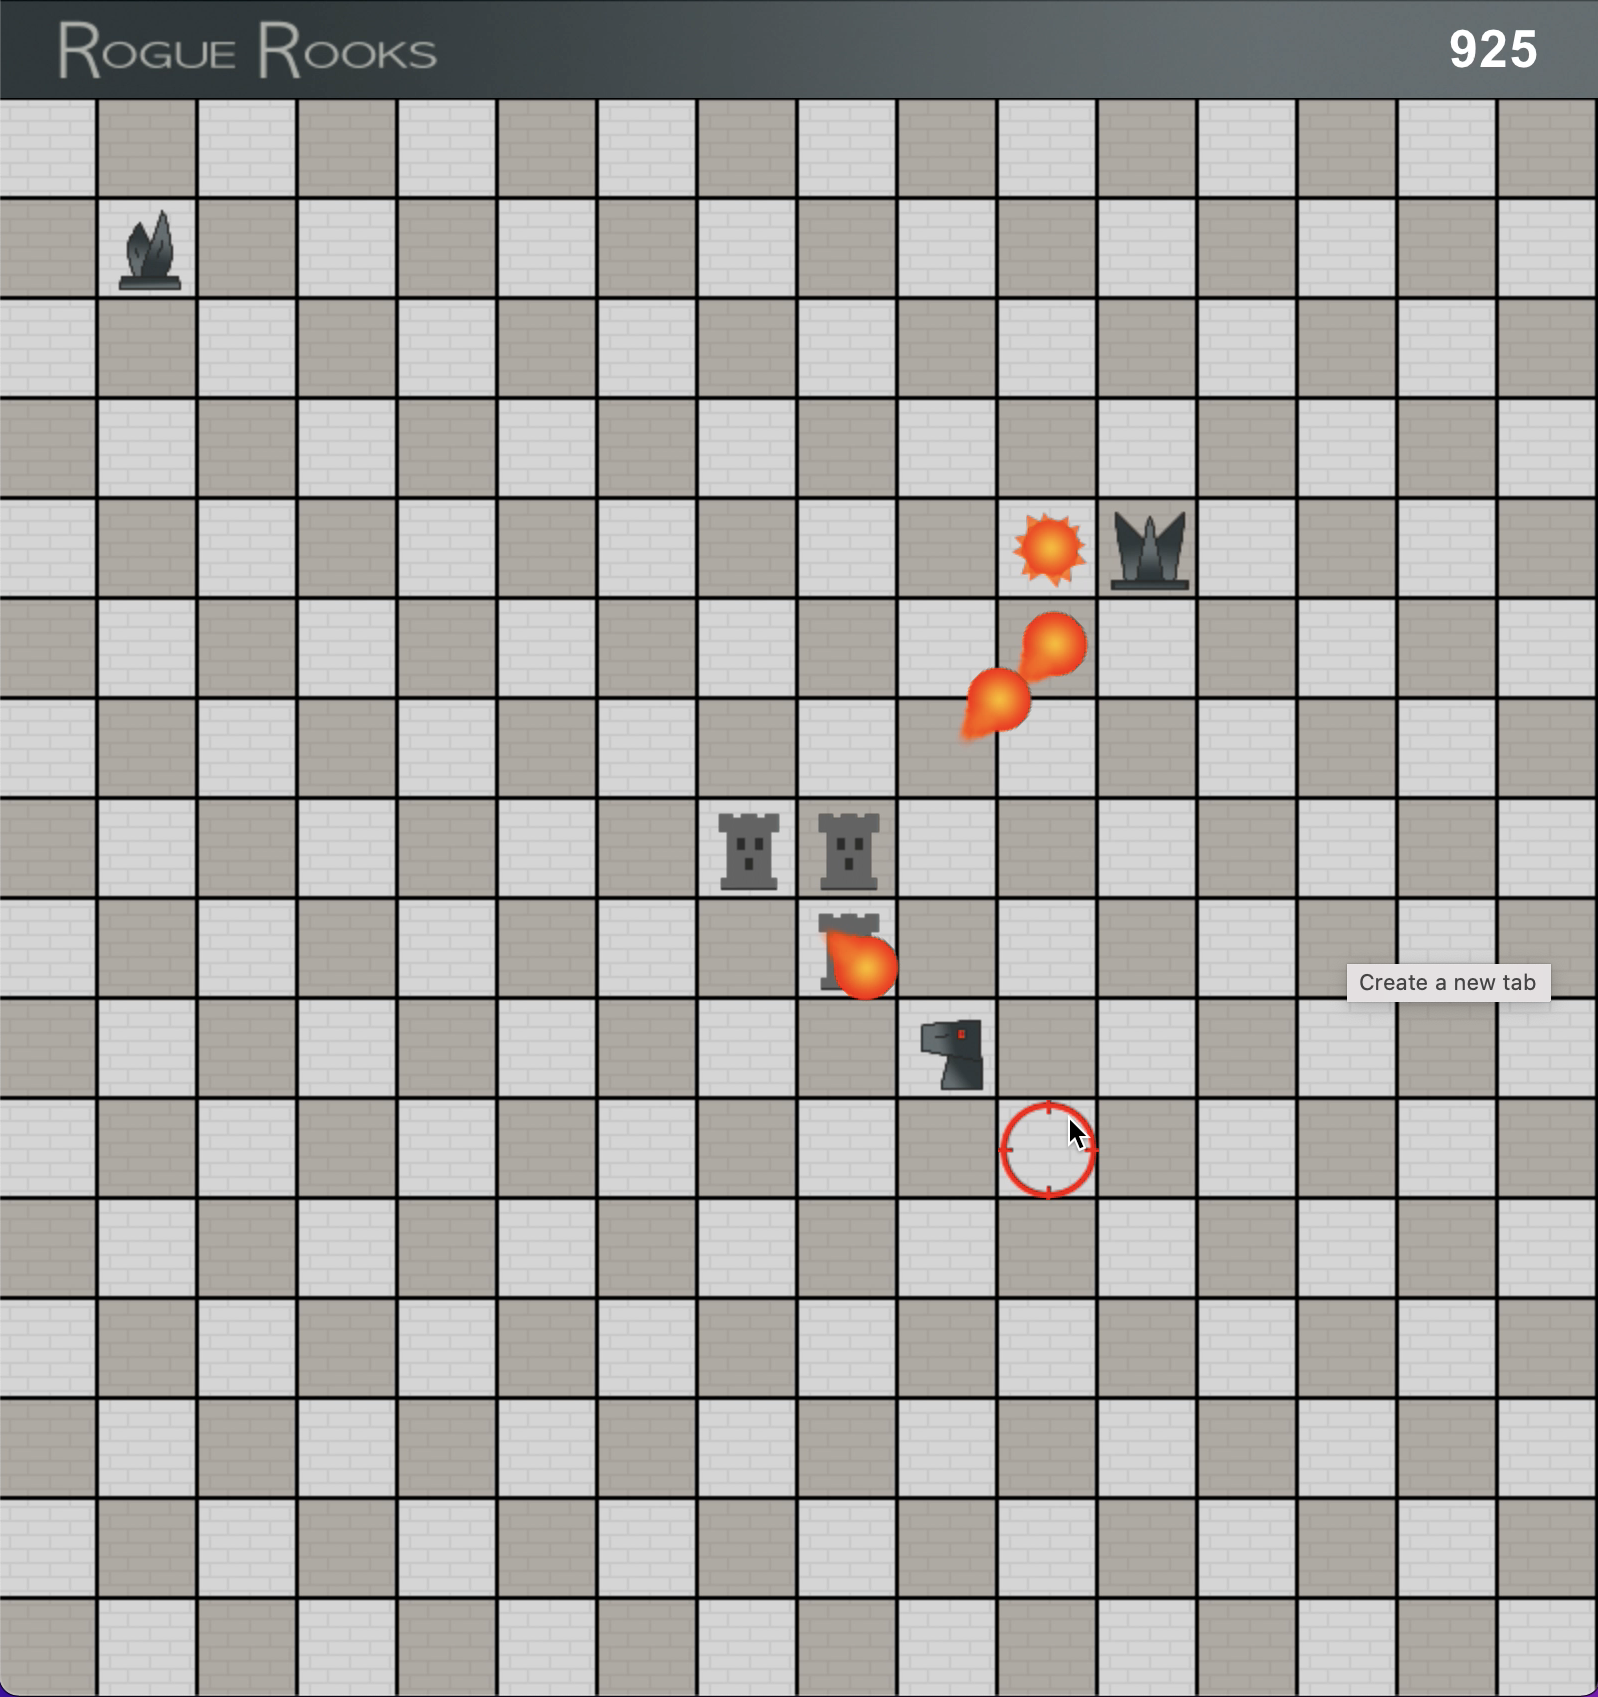
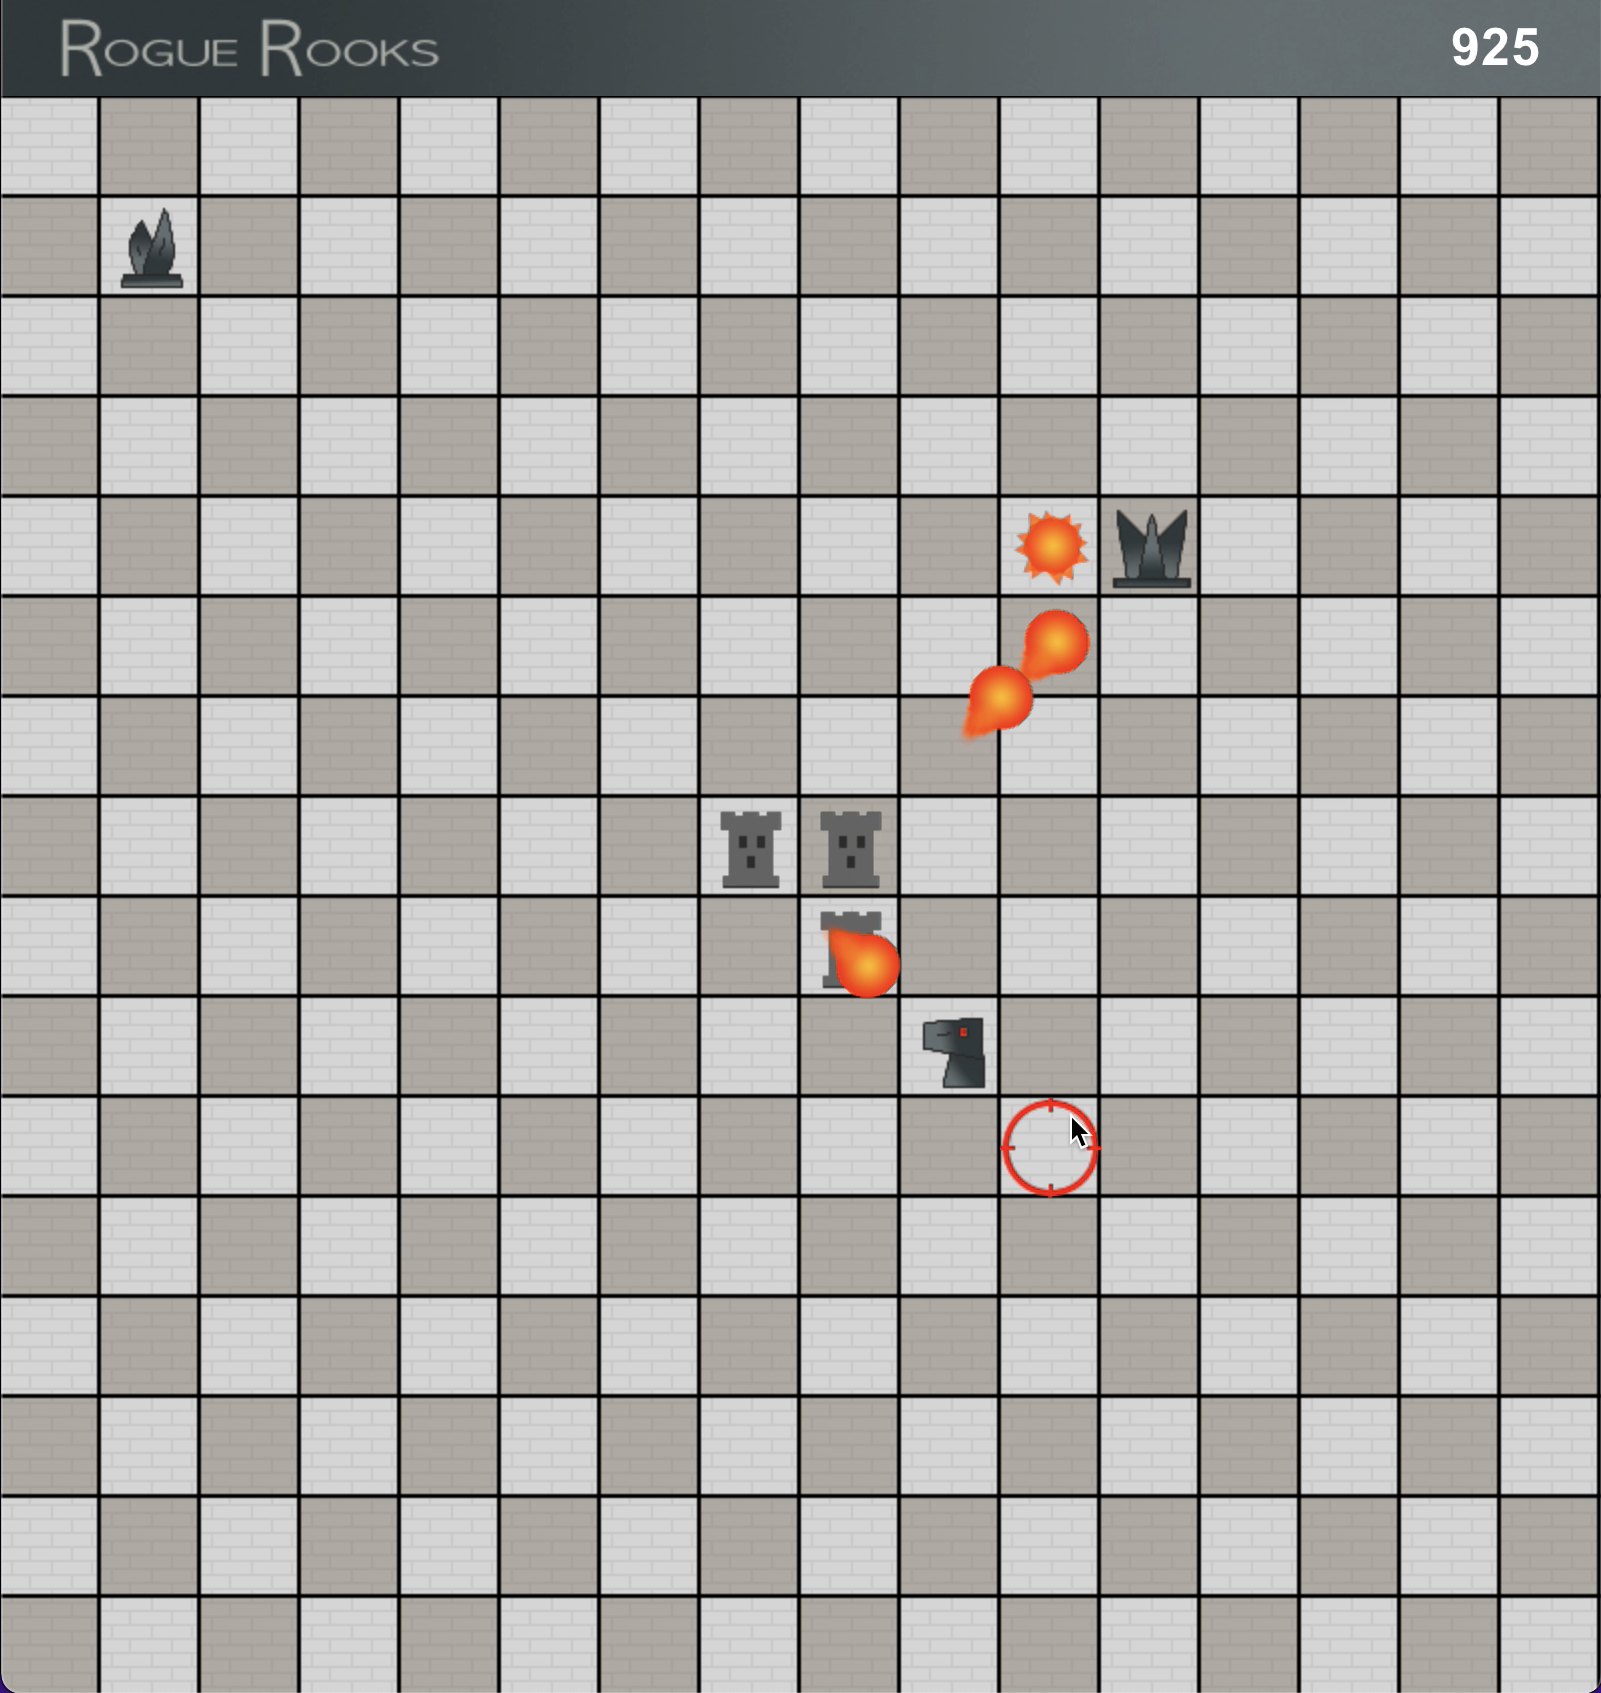
better screen shot

diff --git a/readme.md b/readme.md
@@ -11,6 +11,8 @@ By Mike Boone
 * https://github.com/boone
 * https://boone42.itch.io
 
+![image](screen_shot.png)
+
 Rooks are little castles in chess. They do not want to play chess anymore. The other pieces are angry! Save your rooks by shooting fireballs at the attacking chess pieces.
 
 ## How to Start the Game
